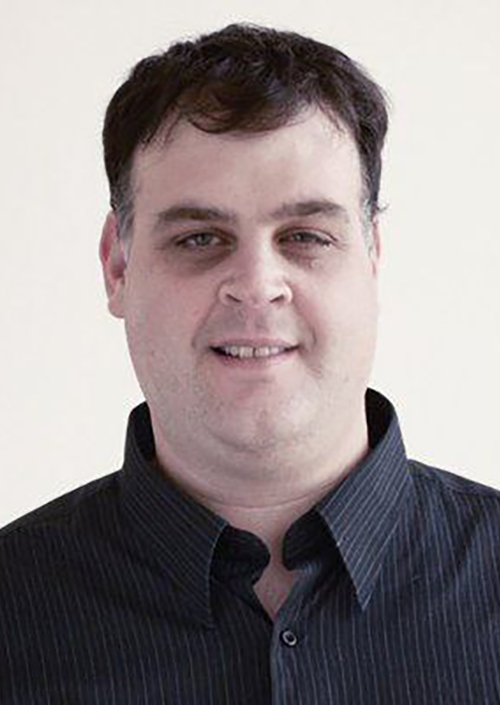
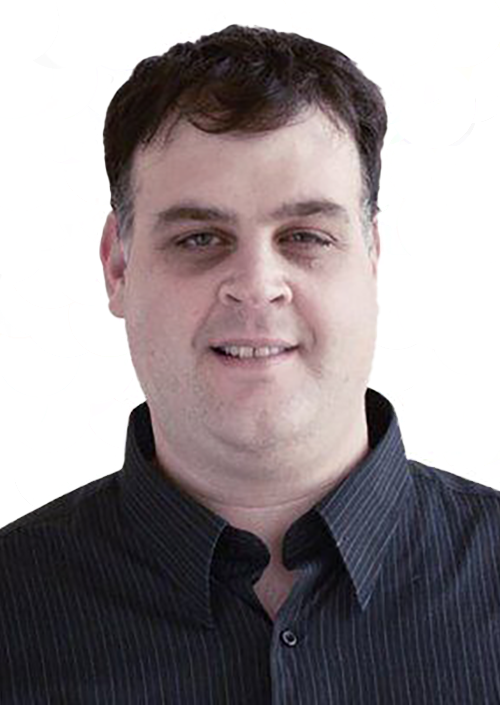
Cleaned up Advisors photos + added Philip

diff --git a/advisors.html b/advisors.html
@@ -96,7 +96,8 @@
                         <h1 class="mb-3 text-uppercase display-2"
                             style="font-family: 'Bebas Neue', 'Roboto', sans-serif;">Meet our advisors</h1>
                         <h3 class="mb-4 px-2"
-                            style="font-family: 'Bebas Neue','Roboto', sans-serif;letter-spacing: 1px;">OG Miners with over 100 years of combined mining experience </h3>
+                            style="font-family: 'Bebas Neue','Roboto', sans-serif;letter-spacing: 1px;">OG Miners with
+                            over 100 years of combined mining experience </h3>
                     </div>
                 </div>
             </div>
@@ -105,7 +106,7 @@
 
 
         <div class="container p-5" style="background-color: #C68135;">
-        
+
             <div class="row gap-5 justify-content-center">
                 <div class="card mb-3" style="max-width: 540px;">
                     <div class="row g-0">
@@ -121,7 +122,12 @@
                                     <h4>Gerald Wilke</h4>
                                     <h6>CEO and Founder of <a href="https://www.hmtech.co/"> HM Tech</a></h6>
                                 </div>
-                                <p class="card-text">Gerald, like many of us, started Bitcoin mining at home back in 2012. Since then, he's started four companies and grown HMTech into the premier service and repair provider in the Western hemisphere. His company holds certifications to repair ASIC hardware from Bitmain, MicroBT, Innosilicon, iPollo, and Alpha Miner. HMTech has consulted with almost all major Crypto miners in the US on various projects. Today HMTech is THE trusted source for service and repair.
+                                <p class="card-text">Gerald, like many of us, started Bitcoin mining at home back in
+                                    2012. Since then, he's started four companies and grown HMTech into the premier
+                                    service and repair provider in the Western hemisphere. His company holds
+                                    certifications to repair ASIC hardware from Bitmain, MicroBT, Innosilicon, iPollo,
+                                    and Alpha Miner. HMTech has consulted with almost all major Crypto miners in the US
+                                    on various projects. Today HMTech is THE trusted source for service and repair.
                                 </p>
                             </div>
                         </div>
@@ -138,10 +144,14 @@
                             <div class="card-body">
                                 <div class="text-center">
                                     <h4>Guy Corem</h4>
-                                    <h6>Co-Founder of <a href="https://www.spondoolies-tech.com/">Spondoolies-Tech</a></h6>
-        
+                                    <h6>Co-Founder of <a href="https://www.spondoolies-tech.com/">Spondoolies-Tech</a>
+                                    </h6>
+
                                 </div>
-                                <p class="card-text">Guy was a hobbyist miner using GPUs during 2011-2012. In 2013 he co-founded Spondoolies-Tech, one of the first ASIC-producing companies. Spondooliee-Tech produced the Hammer 40nm ASIC and the SP10 machine based on it and the 28nm RockerBox ASIC and the SP30, 35, and SP20 machines based on it.
+                                <p class="card-text">Guy was a hobbyist miner using GPUs during 2011-2012. In 2013 he
+                                    co-founded Spondoolies-Tech, one of the first ASIC-producing companies.
+                                    Spondooliee-Tech produced the Hammer 40nm ASIC and the SP10 machine based on it and
+                                    the 28nm RockerBox ASIC and the SP30, 35, and SP20 machines based on it.
                                 </p>
                             </div>
                         </div>
@@ -150,9 +160,10 @@
                 <div class="card mb-3" style="max-width: 540px;">
                     <div class="row g-0">
                         <div class="col-md-4 pt-3">
-                            <img src="./img/advisors/3.png" alt="Martin Caldera"
+                            <img src="./img/advisors/3-c.png" alt="Martin Caldera"
                                 class="img-fluid rounded-start img-thumbnail shadow" />
-                            <p class="pt-3 text-center">Texas, USA <i class="flag flag-united-states"></i><br>Mining Since 2011
+                            <p class="pt-3 text-center">Texas, USA <i class="flag flag-united-states"></i><br>Mining
+                                Since 2011
                             </p>
                         </div>
                         <div class="col-md-8">
@@ -160,9 +171,14 @@
                                 <div class="text-center">
                                     <h4>Martin Caldera</h4>
                                     <h6>OG Miner Since 2011</h6>
-        
+
                                 </div>
-                                <p class="card-text">Martin has been involved with Cryptocurrency since the end of 2011, starting with helping build CPU and FPGA farms. In 2013 he began building farms with ASIC miners with some of the first ASICs, some of which are Gridseed, Bitmain and others. Starting in 2015, he began building large-scale mines with current ASIC technology with a background in Datacenter design and security. Since this time, Martin has built many successful mining operations.
+                                <p class="card-text">Martin has been involved with Cryptocurrency since the end of 2011,
+                                    starting with helping build CPU and FPGA farms. In 2013 he began building farms with
+                                    ASIC miners with some of the first ASICs, some of which are Gridseed, Bitmain and
+                                    others. Starting in 2015, he began building large-scale mines with current ASIC
+                                    technology with a background in Datacenter design and security. Since this time,
+                                    Martin has built many successful mining operations.
                                 </p>
                             </div>
                         </div>
@@ -173,16 +189,18 @@
                         <div class="col-md-4  pt-3">
                             <img src="./img/advisors/4.png" alt="Matt Carson"
                                 class="img-fluid rounded-start img-thumbnail shadow" />
-                            <p class="pt-3 text-center">London, England <i class="flag flag-england"></i><br>Mining Since 2012
+                            <p class="pt-3 text-center">London, England <i class="flag flag-england"></i><br>Mining
+                                Since 2012
                             </p>
                         </div>
                         <div class="col-md-8">
                             <div class="card-body">
                                 <div class="text-center">
                                     <h4>Matt Carson</h4>
-                                    <h6>CEO of <a href="https://uk.linkedin.com/in/matthew-carson-354b4715a">AM Consulting</a>
+                                    <h6>CEO of <a href="https://uk.linkedin.com/in/matthew-carson-354b4715a">AM
+                                            Consulting</a>
                                     </h6>
-        
+
                                 </div>
                                 <p class="card-text">Lorem ipsum dolor sit amet consectetur adipisicing elit.
                                     Necessitatibus id architecto quod nam eaque deleniti aut non possimus
@@ -196,7 +214,8 @@
                         <div class="col-md-4  pt-3">
                             <img src="./img/advisors/5.jpg" alt="Ian Descoteaux"
                                 class="img-fluid rounded-start img-thumbnail shadow" />
-                            <p class="pt-3 text-center">Montreal, Canada <i class="flag flag-canada"></i><br>Mining Since 2010
+                            <p class="pt-3 text-center">Montreal, Canada <i class="flag flag-canada"></i><br>Mining
+                                Since 2010
                             </p>
                         </div>
                         <div class="col-md-8">
@@ -204,9 +223,13 @@
                                 <div class="text-center">
                                     <h4>Ian Descoteaux</h4>
                                     <h6>CTO & Co-Founder of <a href="https://pow.re"> Pow.re</a></h6>
-        
+
                                 </div>
-                                <p class="card-text">Ian started mining in early 2010, first using CPUs and then GPUs. In 2013, he started building his own ASIC farm that grew to 40MW in 2018, representing up to 1% of the bitcoin network computational power. In 2019, Ian went to manage a top 6 mining pool before founding Pow.re with his co-founders and going back to building mining farms.
+                                <p class="card-text">Ian started mining in early 2010, first using CPUs and then GPUs.
+                                    In 2013, he started building his own ASIC farm that grew to 40MW in 2018,
+                                    representing up to 1% of the bitcoin network computational power. In 2019, Ian went
+                                    to manage a top 6 mining pool before founding Pow.re with his co-founders and going
+                                    back to building mining farms.
                                 </p>
                             </div>
                         </div>
@@ -215,9 +238,10 @@
                 <div class="card mb-3" style="max-width: 540px;">
                     <div class="row g-0">
                         <div class="col-md-4  pt-3">
-                            <img src="./img/advisors/6.jpg" alt="Gregory Ohanessian"
+                            <img src="./img/advisors/6-c.png" alt="Gregory Ohanessian"
                                 class="img-fluid rounded-start img-thumbnail shadow" />
-                            <p class="pt-3 text-center">New Jersey, USA <i class="flag flag-united-states"></i><br>Mining Since
+                            <p class="pt-3 text-center">New Jersey, USA <i
+                                    class="flag flag-united-states"></i><br>Mining Since
                                 2010</p>
                         </div>
                         <div class="col-md-8">
@@ -225,19 +249,44 @@
                                 <div class="text-center">
                                     <h4>Gregory Ohanessian</h4>
                                     <h6>CEO and Co-Founder of <a href="https://fix256.com/"> Fix256</a></h6>
-        
+
                                 </div>
-                                <p class="card-text">Greg started mining in 2011, and was a part of helping Bitmain with the S1. He is a Legendary Member of BitcoinTalk.org, where he has been providing hardware sales and software support to the community since February 2014. He built and designed a 15MW mining facility in Atlanta, GA, where he was responsible for software development, facility design, and leading a team of 10 technicians and engineers. Now, he is primarily involved in hardware sales, repair, and consulting for large-scale miners in the community.</p>
+                                <p class="card-text">Greg started mining in 2011, and was a part of helping Bitmain with
+                                    the S1. He is a Legendary Member of BitcoinTalk.org, where he has been providing
+                                    hardware sales and software support to the community since February 2014. He built
+                                    and designed a 15MW mining facility in Atlanta, GA, where he was responsible for
+                                    software development, facility design, and leading a team of 10 technicians and
+                                    engineers. Now, he is primarily involved in hardware sales, repair, and consulting
+                                    for large-scale miners in the community.</p>
                             </div>
                         </div>
                     </div>
                 </div>
-        
-        
-        
+                <div class="card mb-3" style="max-width: 540px;">
+                    <div class="row g-0">
+                        <div class="col-md-4  pt-3">
+                            <img src="./img/advisors/7.png" alt="Philip Salter"
+                                class="img-fluid rounded-start img-thumbnail shadow" />
+                            <p class="pt-3 text-center"> USA <i
+                                    class="flag flag-united-states"></i><br>Mining Since
+                                2011</p>
+                        </div>
+                        <div class="col-md-8">
+                            <div class="card-body">
+                                <div class="text-center">
+                                    <h4>Philip Salter</h4>
+                                    <h6>CTO of <a href="https://genesisdigitalassets.com/"> Genesis Digital Assets</a></h6>
+
+                                </div>
+                                <p class="card-text">Philip started off in software development and game engine design. He has been responsible for
+                                    software infrastructure and mining operations in Genesis Mining since its founding in 2014 and is now CTO of Genesis
+                                    Digital Assets. Having mined his first Bitcoin in 2011, he is a passionate advocate for cryptocurrencies and a true
+                                    old-school miner.</p>
+                            </div>
+                        </div>
+                    </div>
+                </div>
             </div>
-        
-        </div>
         </div>
 
 
